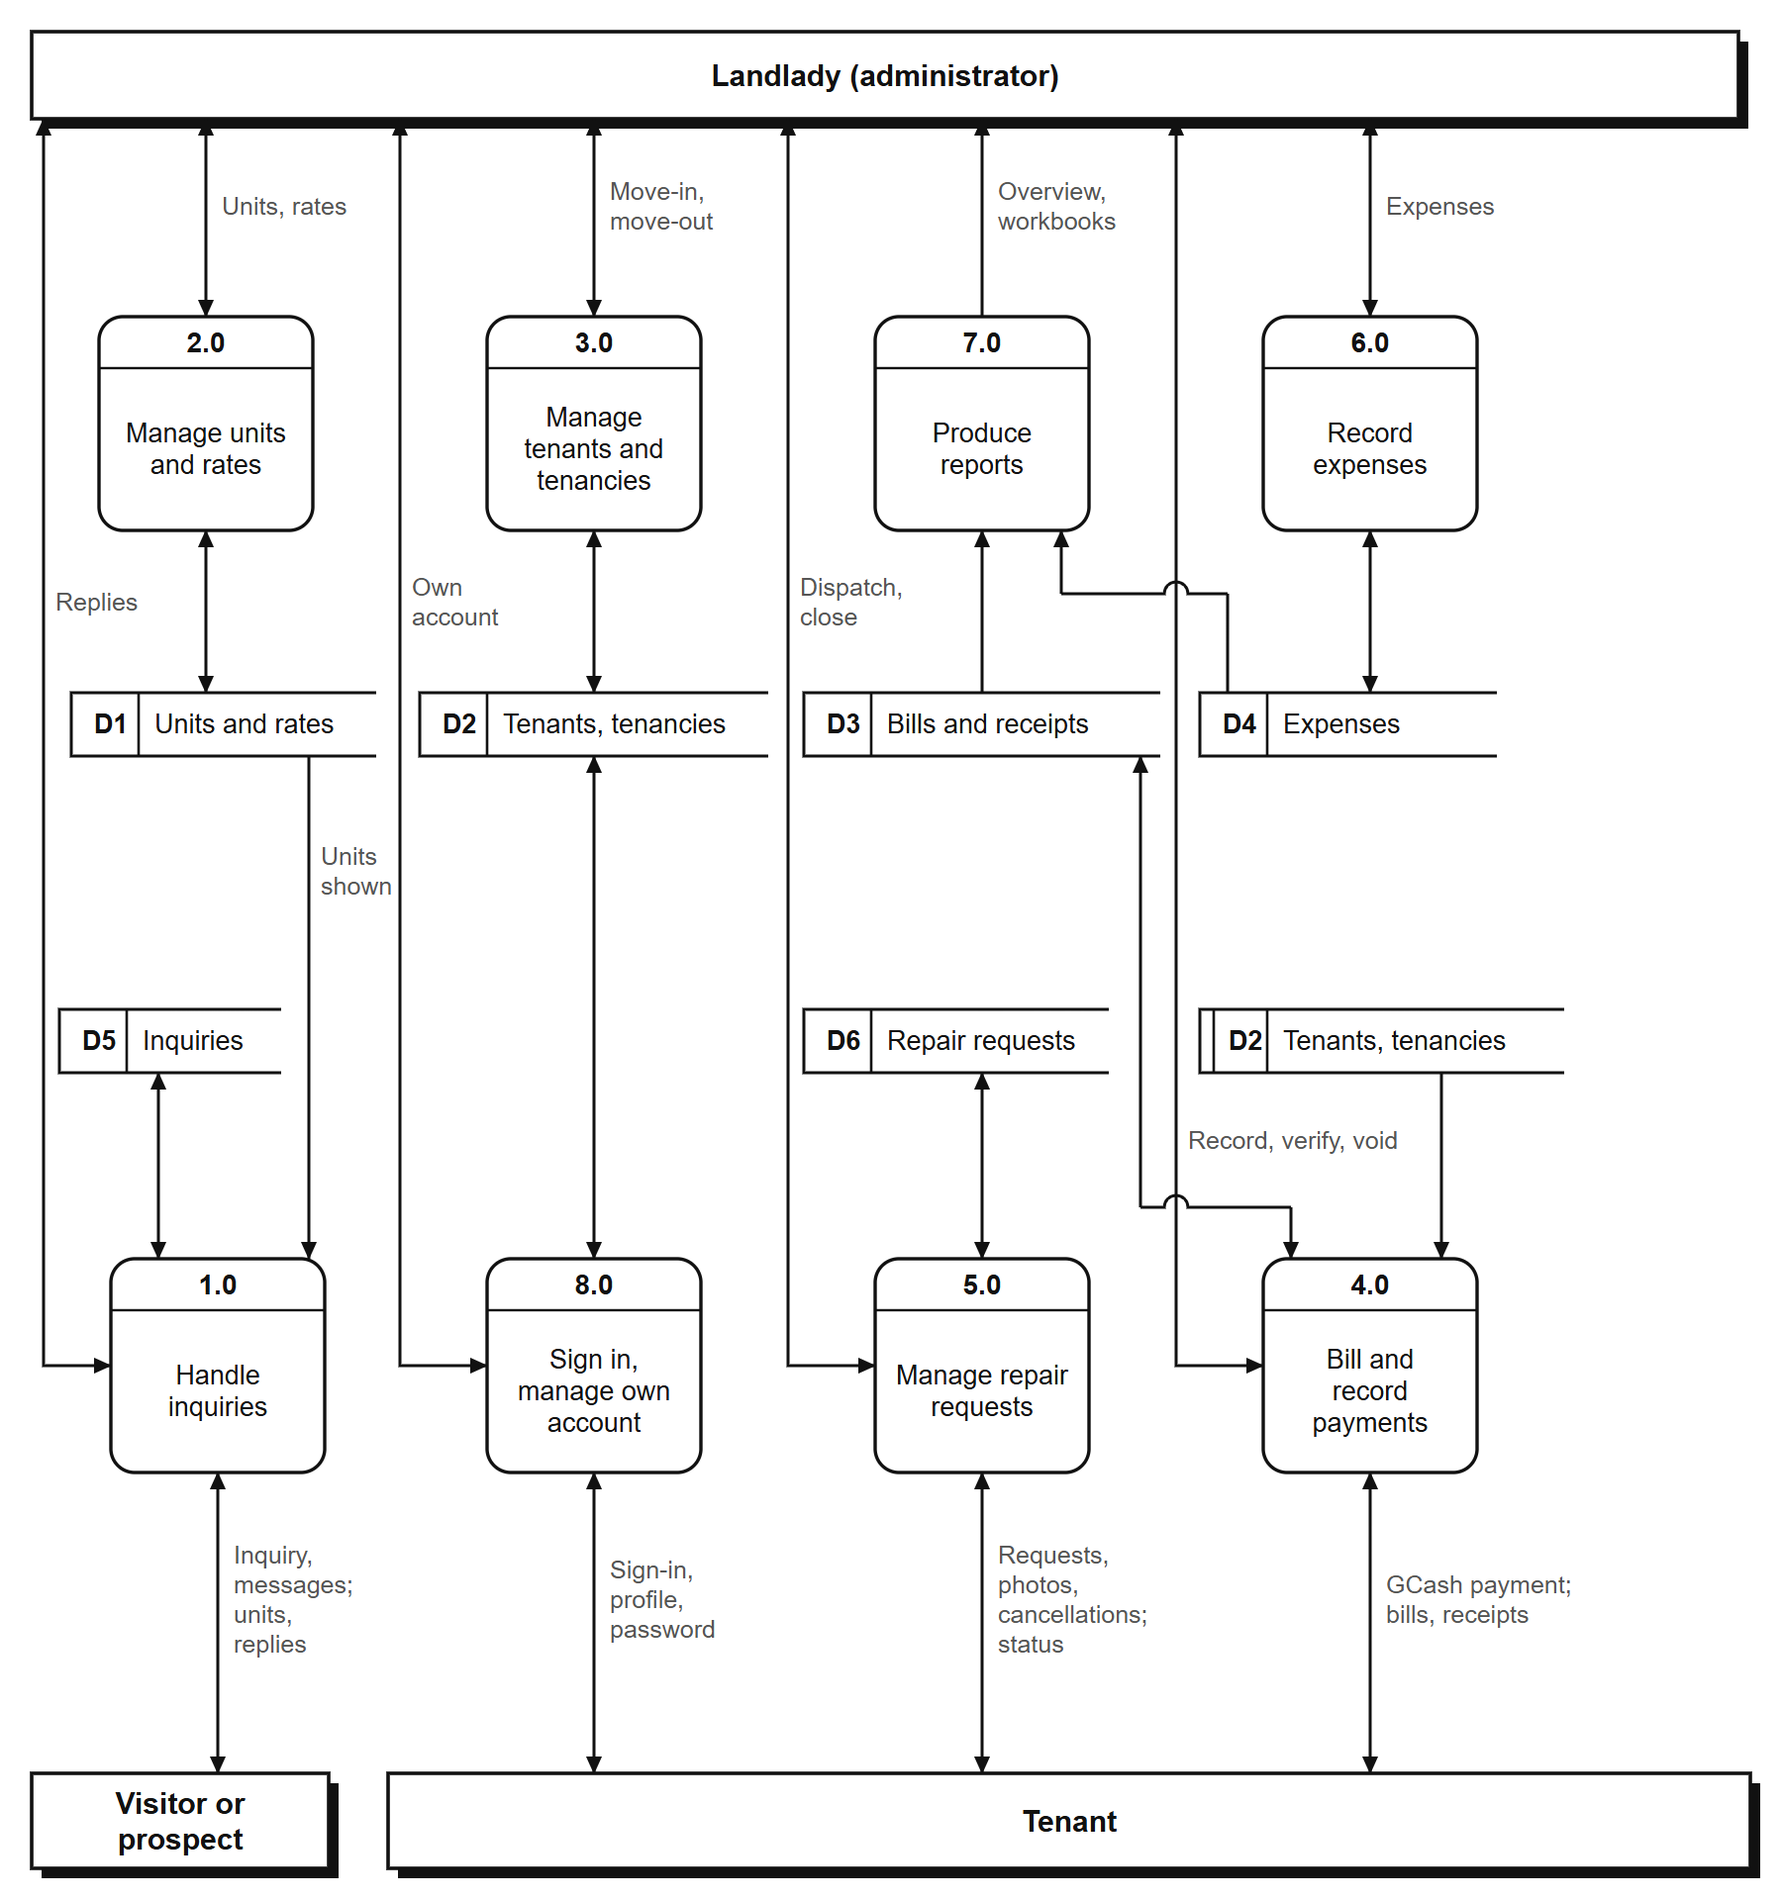
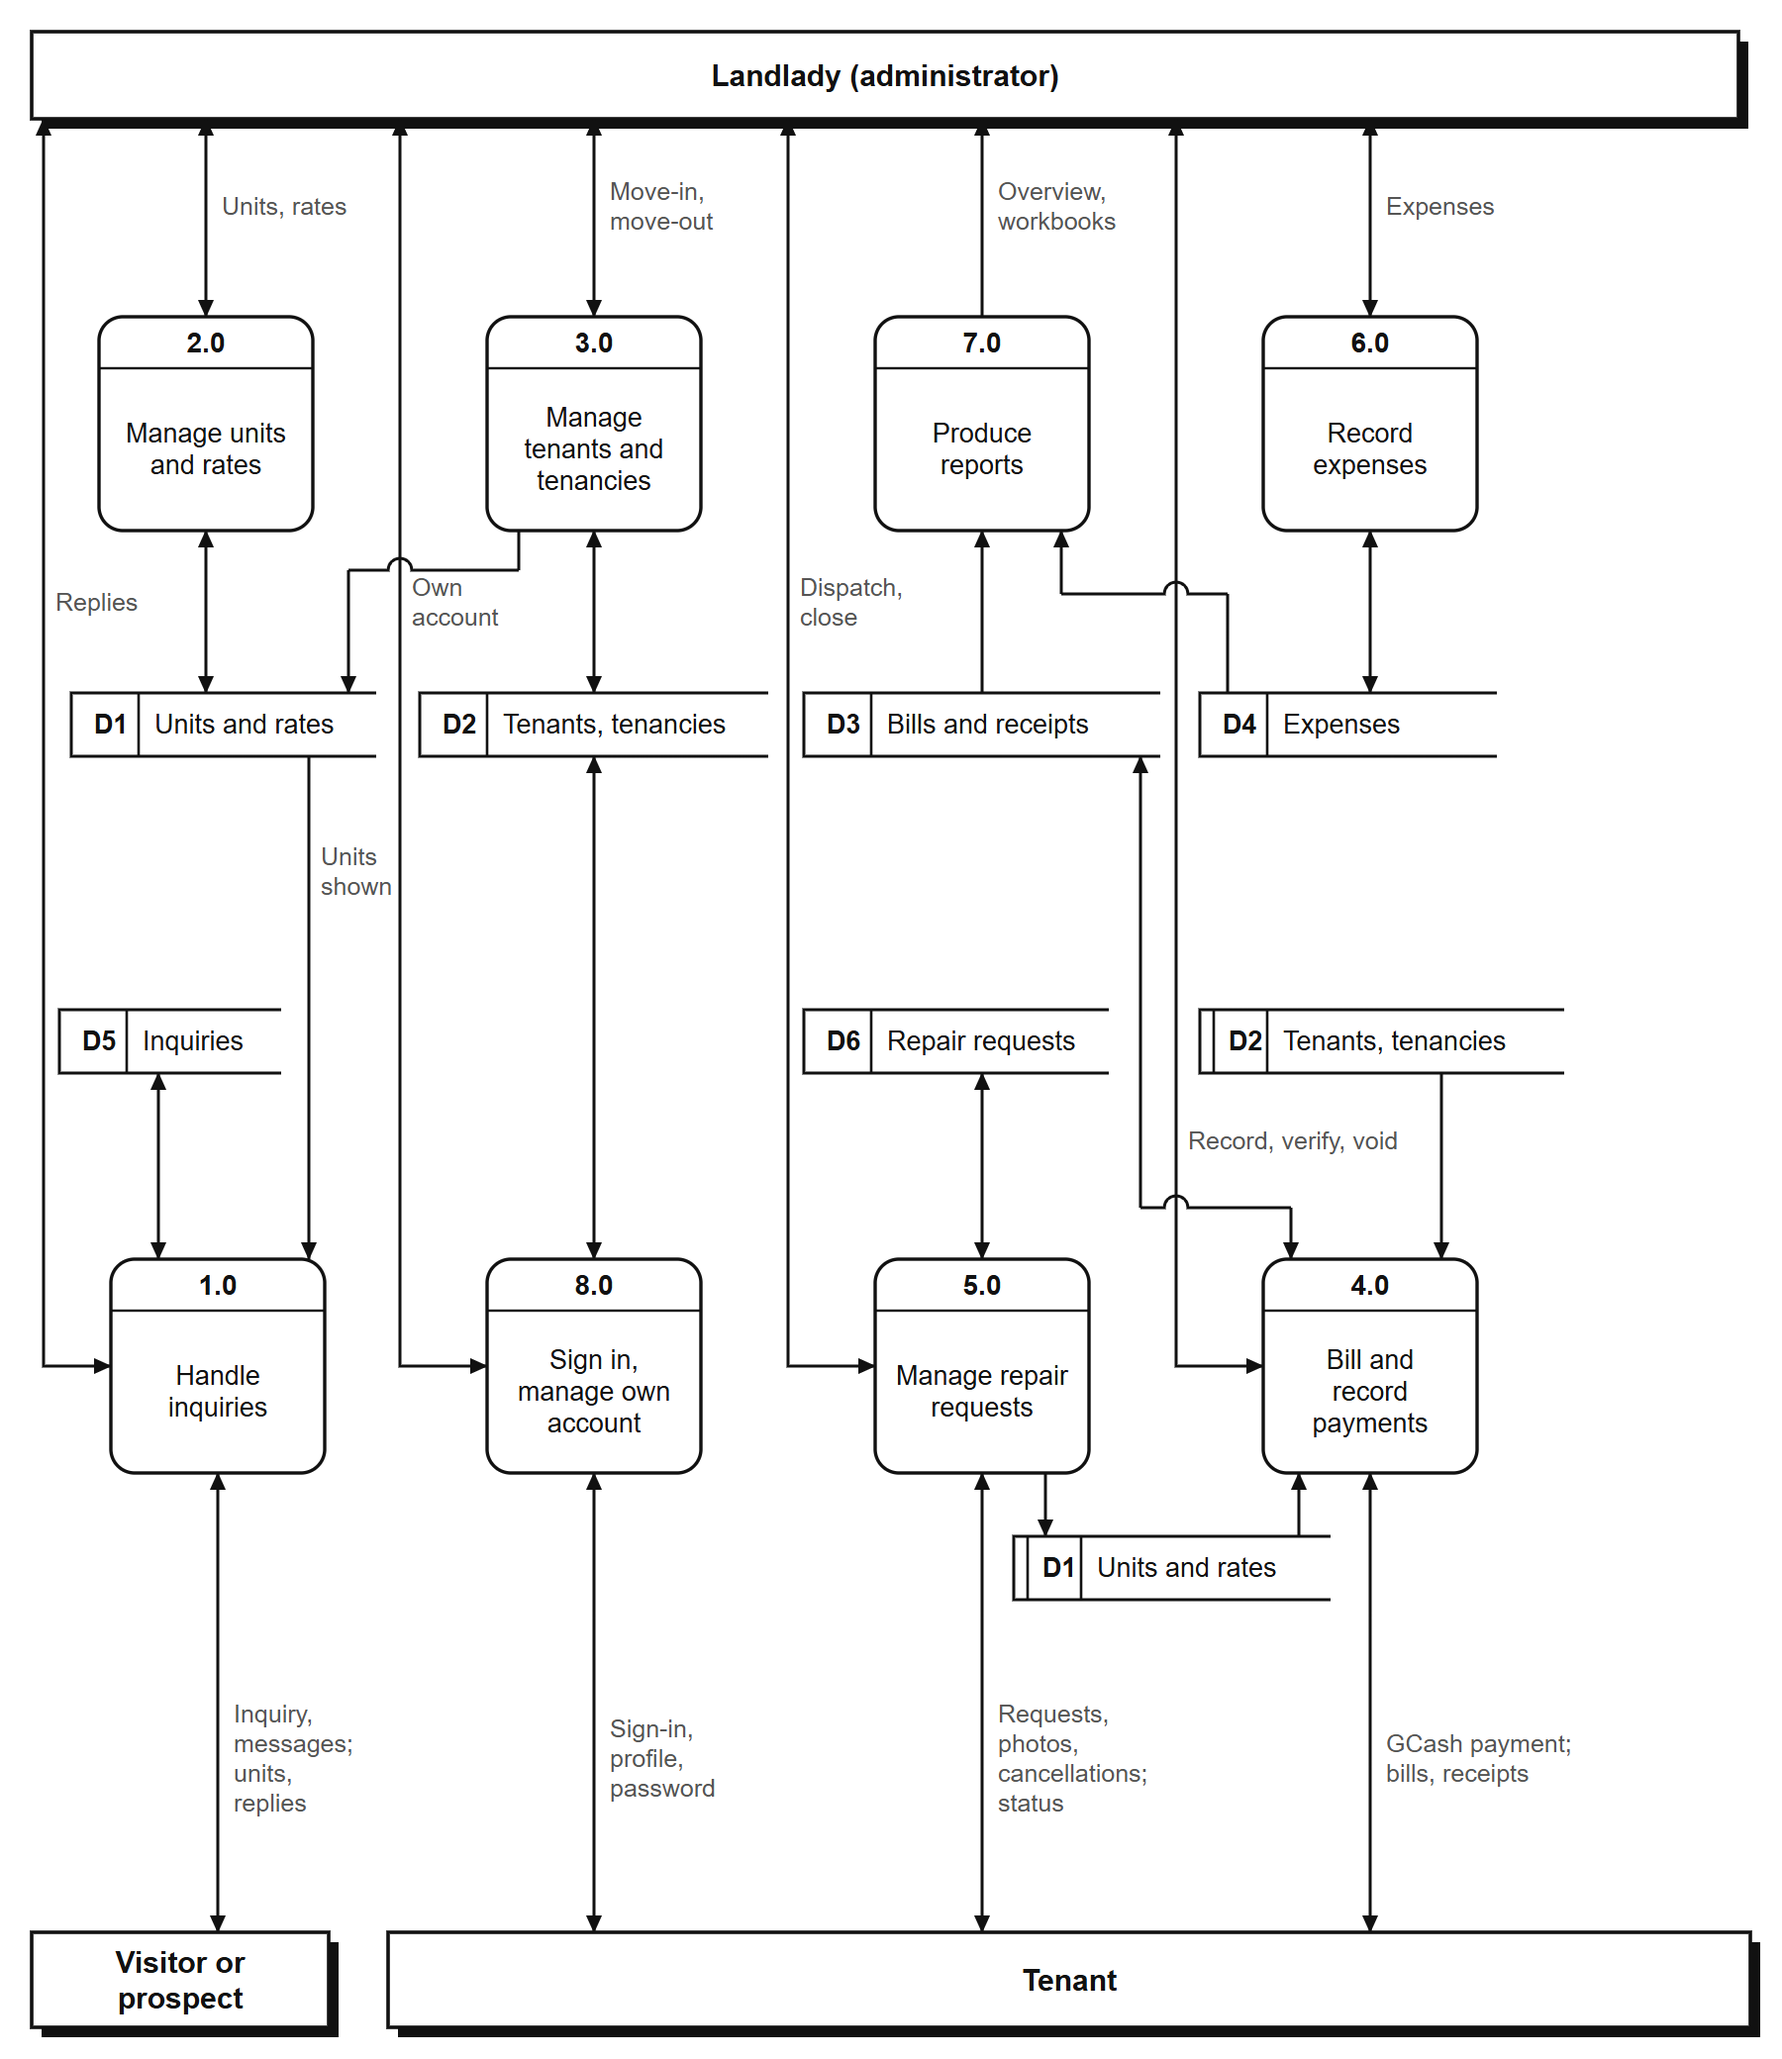
Figure 4-4 connects the units store to 3.0, 4.0 and 5.0
Checklist item 27. The strict review found Figure 4-4 drew each process with
its main stores only, while Appendix F has 3.0 and 5.0 write D1 (move-in,
move-out, a unit put Under Maintenance by a ticket, admin.ts) and 4.0 read
it (the rate a bill is raised at). D1 now appears twice, the second time
under 5.0 and 4.0, so no line crosses another; 3.0's flow hops over the
landlady's line to 8.0. Appendix F and Section 4.2.1 no longer say the
figure leaves D1 out.

diff --git a/FINAL/_src/appendices/APPENDIX_F_CHILD_DATA_FLOW_DIAGRAMS.md b/FINAL/_src/appendices/APPENDIX_F_CHILD_DATA_FLOW_DIAGRAMS.md
@@ -4,9 +4,8 @@ Figures F-1 to F-8 open each of the eight processes of the level 1 diagram (Figu
 in the Gane and Sarson notation used for Figures 6 and 7. A rounded rectangle is a process, with its
 number in the band across the top. A rectangle open on the right is a data store. A shaded square is
 an external entity. Each step is one operation the system's screens perform. The stores and external
-entities keep the names of Figure 7. Each diagram shows every store its steps read or write. Figure 7
-draws each process with its main stores only, so the diagrams of processes 3.0, 4.0 and 5.0 also show
-the units store (D1), which those steps read or update.
+entities keep the names of Figure 7. Each diagram shows every store its steps read or write, and
+each agrees with the stores Figure 7 connects to its process.
 Adyen, the payment gateway, is part of the payment process rather than an external entity, so it
 appears on no diagram as an entity. Taking a GCash payment through it is step 4.3 of Figure F-4.
 
